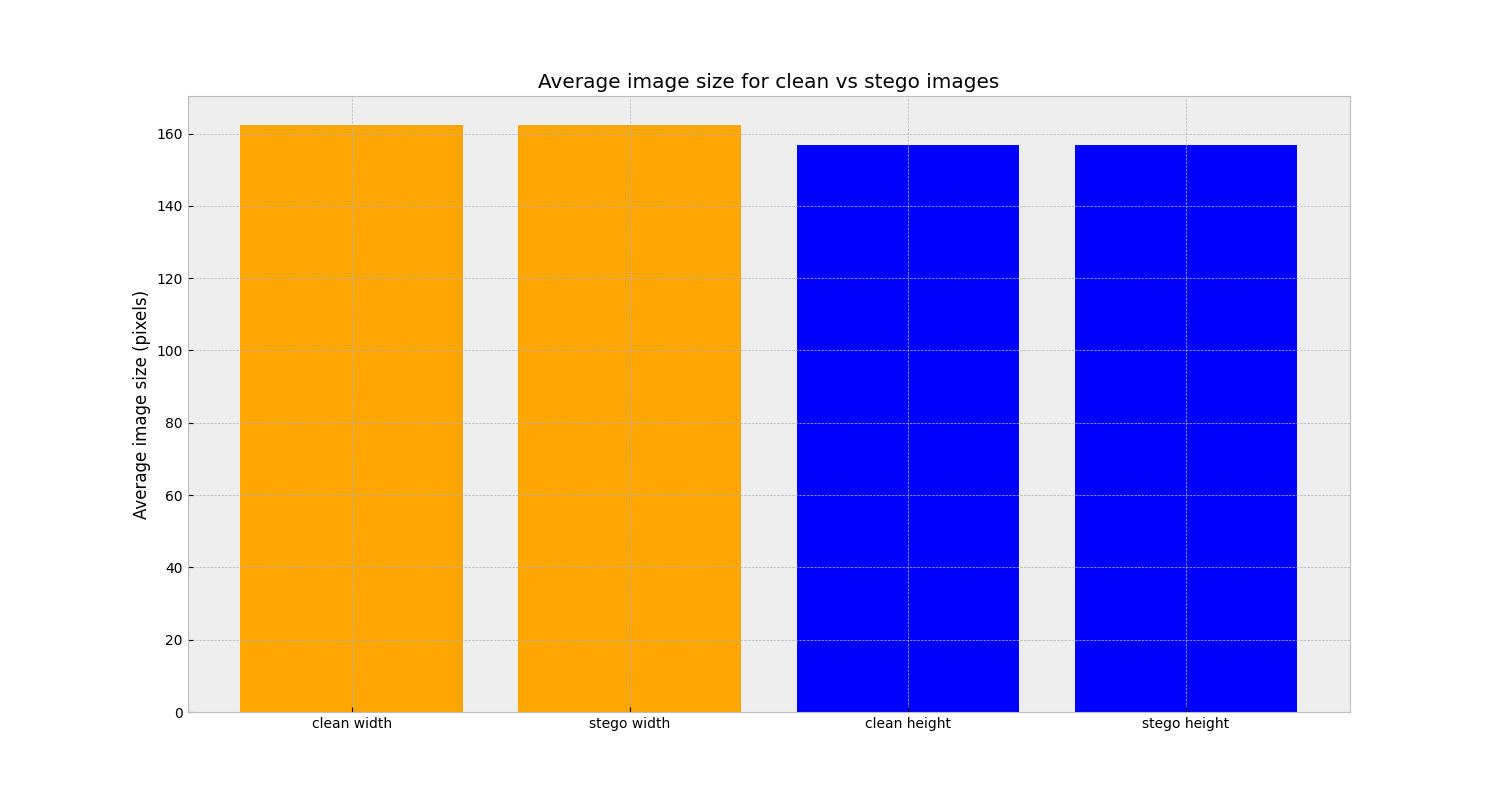
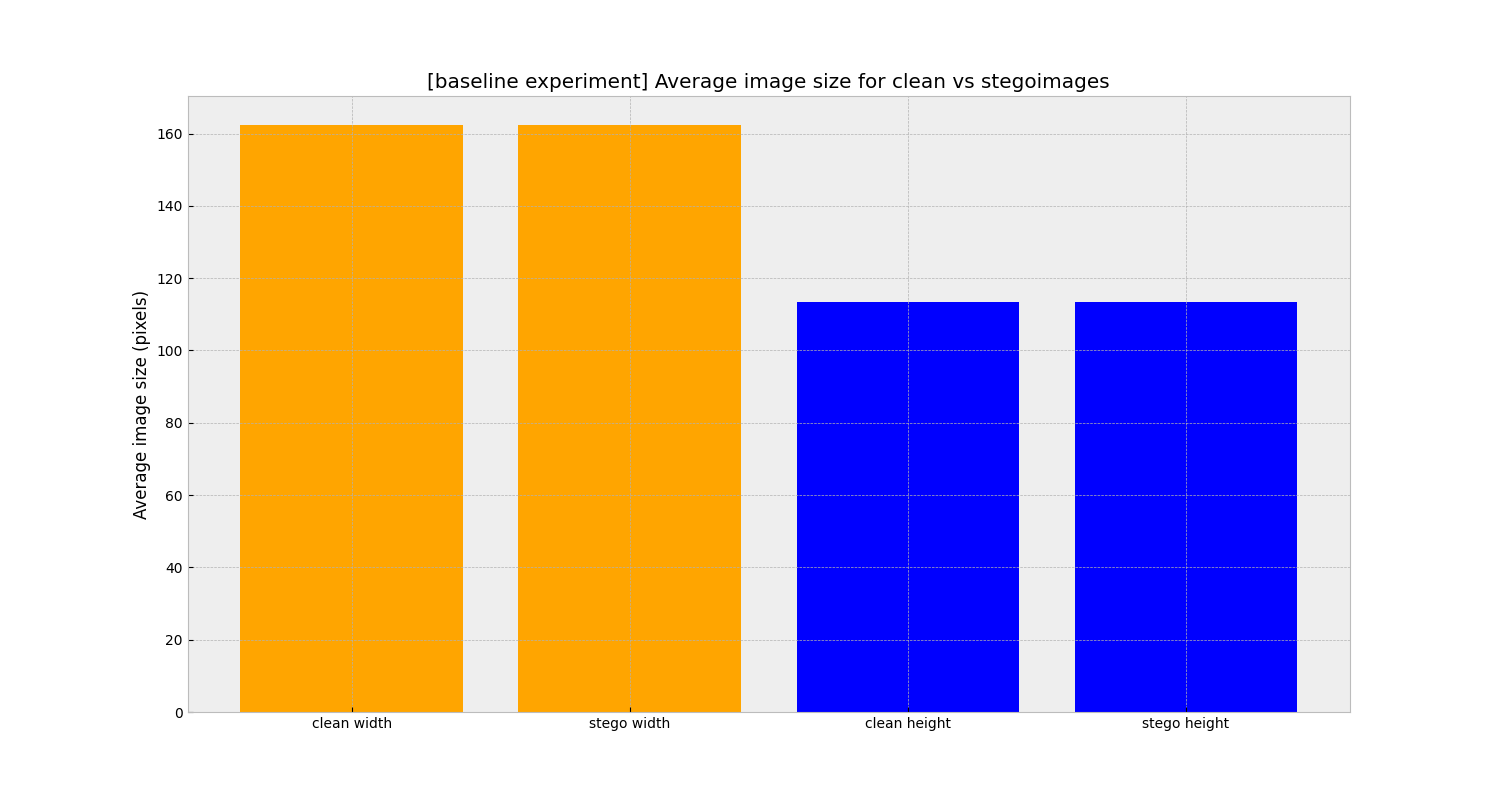
results

Changed region(s): [[0.5213, 0.1562, 0.8893, 0.375], [0.276, 0.0938, 0.736, 0.125]]

diff --git a/client/visualise.py b/client/visualise.py
@@ -58,7 +58,7 @@ def plot_unfiltered_percentage_by_signature():
         plt.xticks([1, 2], ['signed', 'no signature + malicious signature'])
         plt.yticks([0, 10, 20, 30, 40, 50, 60, 70, 80, 90, 100])
         plt.ylabel('Unfiltered percentage')
-        plt.title('Unfiltered percentage for signed vs no signature + malicious signature websites')
+        plt.title('[baseline experiment] Unfiltered percentage for signed vs no signature + malicious signature websites')
         # plt.show()
         plt.savefig('client/test_results/unfiltered_percentage_by_signature.png')
         plt.close()
@@ -121,7 +121,7 @@ def plot_measurement_by_category(measurement):
         plt.vlines([3.5, 5.5, 7.5, 9.5, 12.5], ymin=0, ymax=1.15*max_avg, color='k', linestyles='dotted', linewidth=1)
         plt.xticks(range(1, len(bins) + 1), bins.keys())
         plt.ylabel('Average {} ({})'.format(measurement, 'kB' if measurement == 'size' else 's'))
-        plt.title('Average {} for each category'.format(measurement))
+        plt.title('[baseline experiment] Average {} for each category'.format(measurement))
         # plt.show()
         plt.savefig('client/test_results/{}_by_category.png'.format(measurement.replace(' ', '_')))
         plt.close()
@@ -155,7 +155,7 @@ def plot_image_size_differences():
         plt.bar(2, np.array(stego_image_sizes['bytes'], dtype=object).mean()/1000, color='b')
         plt.xticks([1, 2], ['clean images', 'stegoimages'])
         plt.ylabel('Average image size (kB)')
-        plt.title('Average image size for clean vs stegoimages with small payload')
+        plt.title('[baseline experiment] Average image size for clean vs stegoimages with small payload')
         # plt.show()
         plt.savefig('client/test_results/image_differences_bytes.png')
         plt.close()
@@ -167,13 +167,13 @@ def plot_image_size_differences():
         plt.bar(4, np.array(stego_image_sizes['pixels_height'], dtype=object).mean(), color='b')
         plt.xticks([1, 2, 3, 4], ['clean width', 'stego width', 'clean height', 'stego height'])
         plt.ylabel('Average image size (pixels)')
-        plt.title('Average image size for clean vs stegoimages')
+        plt.title('[baseline experiment] Average image size for clean vs stegoimages')
         # plt.show()
         plt.savefig('client/test_results/image_differences_pixels.png')
         plt.close()
 
 
-# plot_unfiltered_percentage_by_signature()
-# plot_measurement_by_category('access time')
-# plot_measurement_by_category('size')
-# plot_image_size_differences()
+plot_unfiltered_percentage_by_signature()
+plot_measurement_by_category('access time')
+plot_measurement_by_category('size')
+plot_image_size_differences()

diff --git a/client/selenium_test.py b/client/selenium_test.py
@@ -41,7 +41,7 @@ def get_driver(which_one):
         case "chrome":
             options = webdriver.ChromeOptions()
             options.add_argument('--headless')
[2 lines of base64/hex data omitted]
         case "firefox":
             options = webdriver.FirefoxOptions()
             options.add_argument('--headless')
@@ -49,7 +49,7 @@ def get_driver(which_one):
         case "edge":
             options = webdriver.EdgeOptions()
             options.add_argument('--headless')
-            return webdriver.Edge(executable_path='/Users/rusadriancatalin/Desktop/SKEWL/research/NAISS/client/edgedriver_mac64_m1/msedgedriver', options=options, seleniumwire_options=selenium_options)
+            return webdriver.Edge(executable_path='/Users/rusadriancatalin/Desktop/SKEWL/research/NAISS/client/edgedriver_mac64_m1/msedgedriver', options=options)
 
 website_names = {website: website.split("/")[2:][0].split(".")[0] for website in WEBSITES}
 
